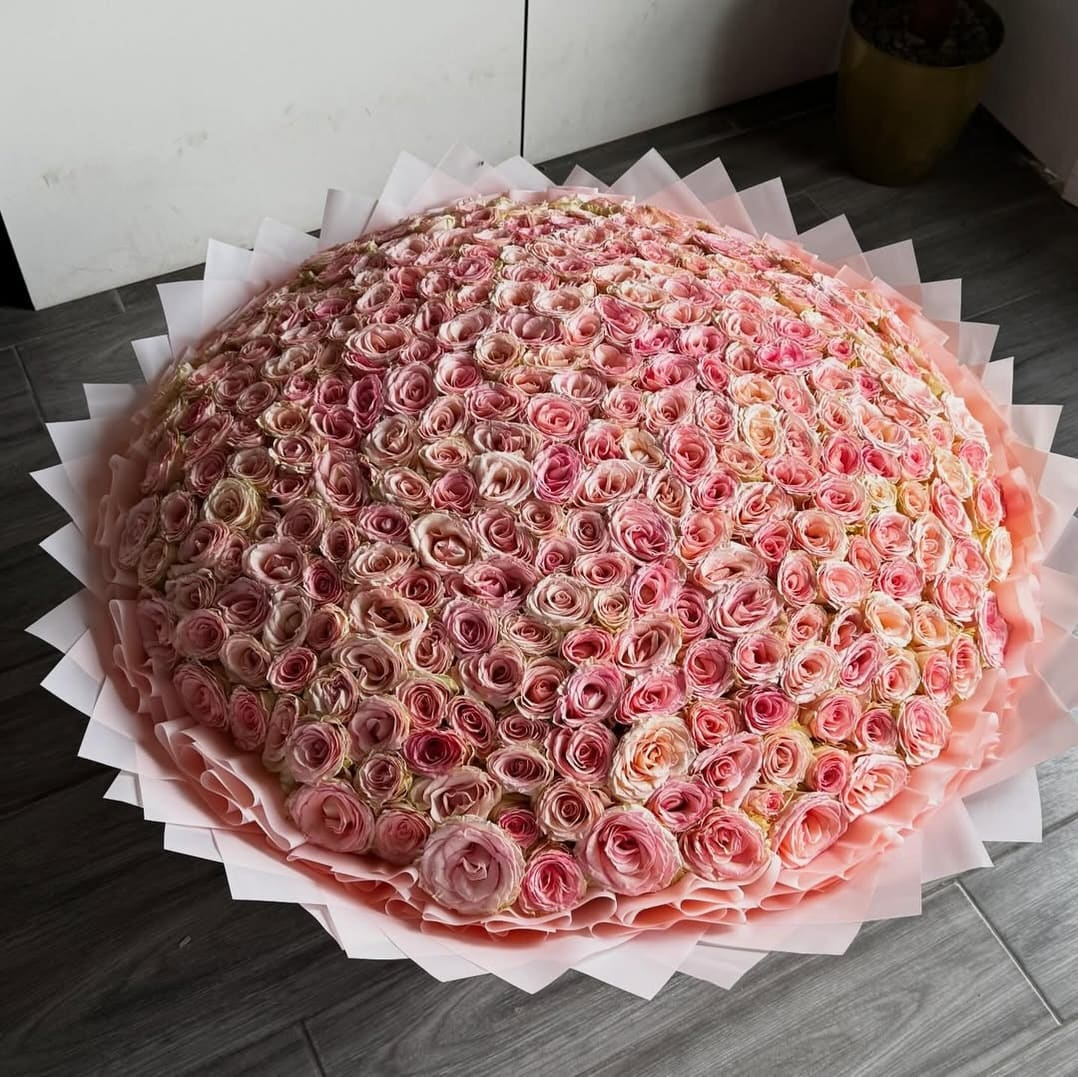
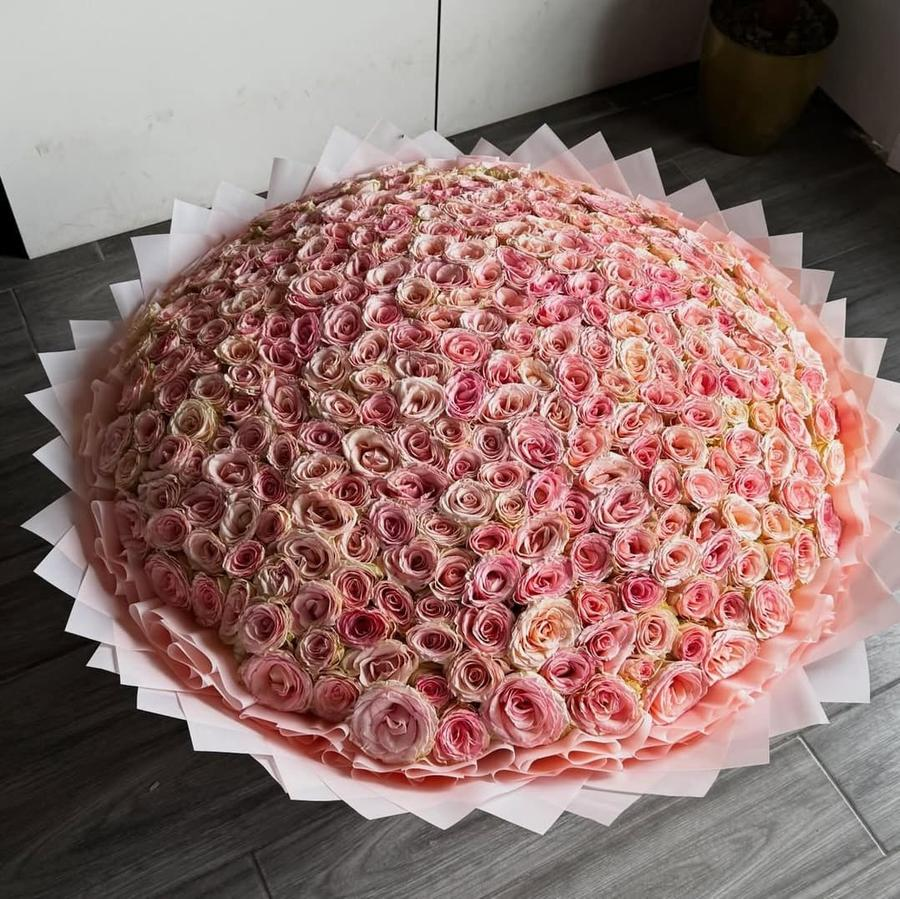
Resize/recompress remaining oversized catalog images, fix sticky header, add cart popup
- Resize catalog images that were still at full camera resolution
  (1080-1200px) down to 900px and recompress, saving ~390KB total
  with no visible quality loss at product-card display sizes.
- Fix position: sticky header not staying fixed while scrolling by
  changing html/body overflow-x from hidden to clip (hidden on
  body breaks sticky positioning in Chrome/Firefox).
- Replace the "added to cart" toast with a popup modal offering
  "View Cart" or "Keep Shopping" actions.

https://claude.ai/code/session_01N7afb1dv3iJCWkmKqaBGue

diff --git a/src/main.js b/src/main.js
@@ -243,19 +243,44 @@ function saveCartCity(city) {
   try { localStorage.setItem(cartCityKey, city) } catch { }
 }
 
-function showCartToast(productName) {
-  const prev = document.getElementById('cart-toast')
+function showAddedToCartModal(product) {
+  const prev = document.getElementById('cart-popup')
   if (prev) prev.remove()
-  const toast = document.createElement('div')
-  toast.id = 'cart-toast'
-  toast.className = 'cart-toast'
-  toast.innerHTML = `<span class="cart-toast-check">✓</span> <strong>${productName}</strong> added to cart`
-  document.body.appendChild(toast)
-  requestAnimationFrame(() => requestAnimationFrame(() => toast.classList.add('cart-toast--visible')))
-  setTimeout(() => {
-    toast.classList.remove('cart-toast--visible')
-    toast.addEventListener('transitionend', () => toast.remove(), { once: true })
-  }, 2800)
+
+  const backdrop = document.createElement('div')
+  backdrop.id = 'cart-popup'
+  backdrop.className = 'cart-popup-backdrop'
+  backdrop.innerHTML = `
+    <div class="cart-popup" role="dialog" aria-modal="true" aria-labelledby="cart-popup-title">
+      <button class="cart-popup-close" type="button" aria-label="Close" data-cart-popup-close>&times;</button>
+      <div class="cart-popup-icon">✓</div>
+      <h3 id="cart-popup-title">Added to your cart</h3>
+      <p><strong>${esc(product?.name || 'Item')}</strong> has been added to your cart.</p>
+      <div class="cart-popup-actions">
+        <a class="btn btn-primary" href="#/cart" data-cart-popup-close>View Cart</a>
+        <button class="btn btn-secondary" type="button" data-cart-popup-close>Keep Shopping</button>
+      </div>
+    </div>
+  `
+  document.body.appendChild(backdrop)
+  requestAnimationFrame(() => requestAnimationFrame(() => backdrop.classList.add('is-visible')))
+
+  const close = () => {
+    document.removeEventListener('keydown', onKeydown)
+    backdrop.classList.remove('is-visible')
+    backdrop.addEventListener('transitionend', () => backdrop.remove(), { once: true })
+  }
+  const onKeydown = (event) => {
+    if (event.key === 'Escape') close()
+  }
+
+  backdrop.addEventListener('click', (event) => {
+    if (event.target === backdrop) close()
+  })
+  backdrop.querySelectorAll('[data-cart-popup-close]').forEach((el) => {
+    el.addEventListener('click', close)
+  })
+  document.addEventListener('keydown', onKeydown)
 }
 
 function addToCart(productId) {
@@ -269,7 +294,7 @@ function addToCart(productId) {
   }
   saveCart(cart)
   renderApp()
-  showCartToast(product?.name || 'Item')
+  showAddedToCartModal(product)
 }
 
 function updateQty(productId, delta) {

diff --git a/src/style.css b/src/style.css
@@ -29,7 +29,7 @@
 html, body {
   margin: 0;
   min-height: 100%;
-  overflow-x: hidden;
+  overflow-x: clip;
 }
 
 a {
@@ -1490,32 +1490,75 @@ p {
   font-weight: 600;
 }
 
-/* Cart toast notification */
-.cart-toast {
+/* Added-to-cart popup */
+.cart-popup-backdrop {
   position: fixed;
-  bottom: 28px;
-  left: 50%;
-  transform: translateX(-50%) translateY(12px);
-  background: #1c1c1e;
-  color: #fff;
-  padding: 13px 22px;
-  border-radius: 10px;
-  font-size: 0.9rem;
+  inset: 0;
+  background: rgba(61, 47, 53, 0.45);
+  display: flex;
+  align-items: center;
+  justify-content: center;
   z-index: 9999;
+  padding: 1rem;
   opacity: 0;
-  transition: opacity 0.22s ease, transform 0.22s ease;
-  white-space: nowrap;
-  box-shadow: 0 6px 20px rgba(0, 0, 0, 0.28);
   pointer-events: none;
+  transition: opacity 0.22s ease;
 }
-.cart-toast--visible {
+.cart-popup-backdrop.is-visible {
   opacity: 1;
-  transform: translateX(-50%) translateY(0);
+  pointer-events: auto;
 }
-.cart-toast-check {
-  color: #6ecf6e;
-  margin-right: 7px;
+.cart-popup {
+  position: relative;
+  width: 100%;
+  max-width: 360px;
+  background: #fff;
+  border-radius: var(--radius);
+  box-shadow: var(--shadow);
+  padding: 2rem 1.75rem;
+  text-align: center;
+  transform: translateY(14px) scale(0.98);
+  transition: transform 0.22s ease;
+}
+.cart-popup-backdrop.is-visible .cart-popup {
+  transform: translateY(0) scale(1);
+}
+.cart-popup-icon {
+  width: 48px;
+  height: 48px;
+  margin: 0 auto 1rem;
+  border-radius: 50%;
+  background: #e6f6ea;
+  color: #2f9e44;
+  font-size: 1.4rem;
   font-weight: 700;
+  display: flex;
+  align-items: center;
+  justify-content: center;
+}
+.cart-popup h3 {
+  margin: 0 0 0.5rem;
+}
+.cart-popup p {
+  margin: 0 0 1.4rem;
+  color: var(--muted);
+}
+.cart-popup-actions {
+  display: flex;
+  flex-direction: column;
+  gap: 0.6rem;
+}
+.cart-popup-close {
+  position: absolute;
+  top: 0.6rem;
+  right: 0.75rem;
+  border: none;
+  background: none;
+  font-size: 1.4rem;
+  line-height: 1;
+  color: var(--muted);
+  cursor: pointer;
+  padding: 0.25rem;
 }
 
 /* Legal pages (T&C, Privacy Policy) */
